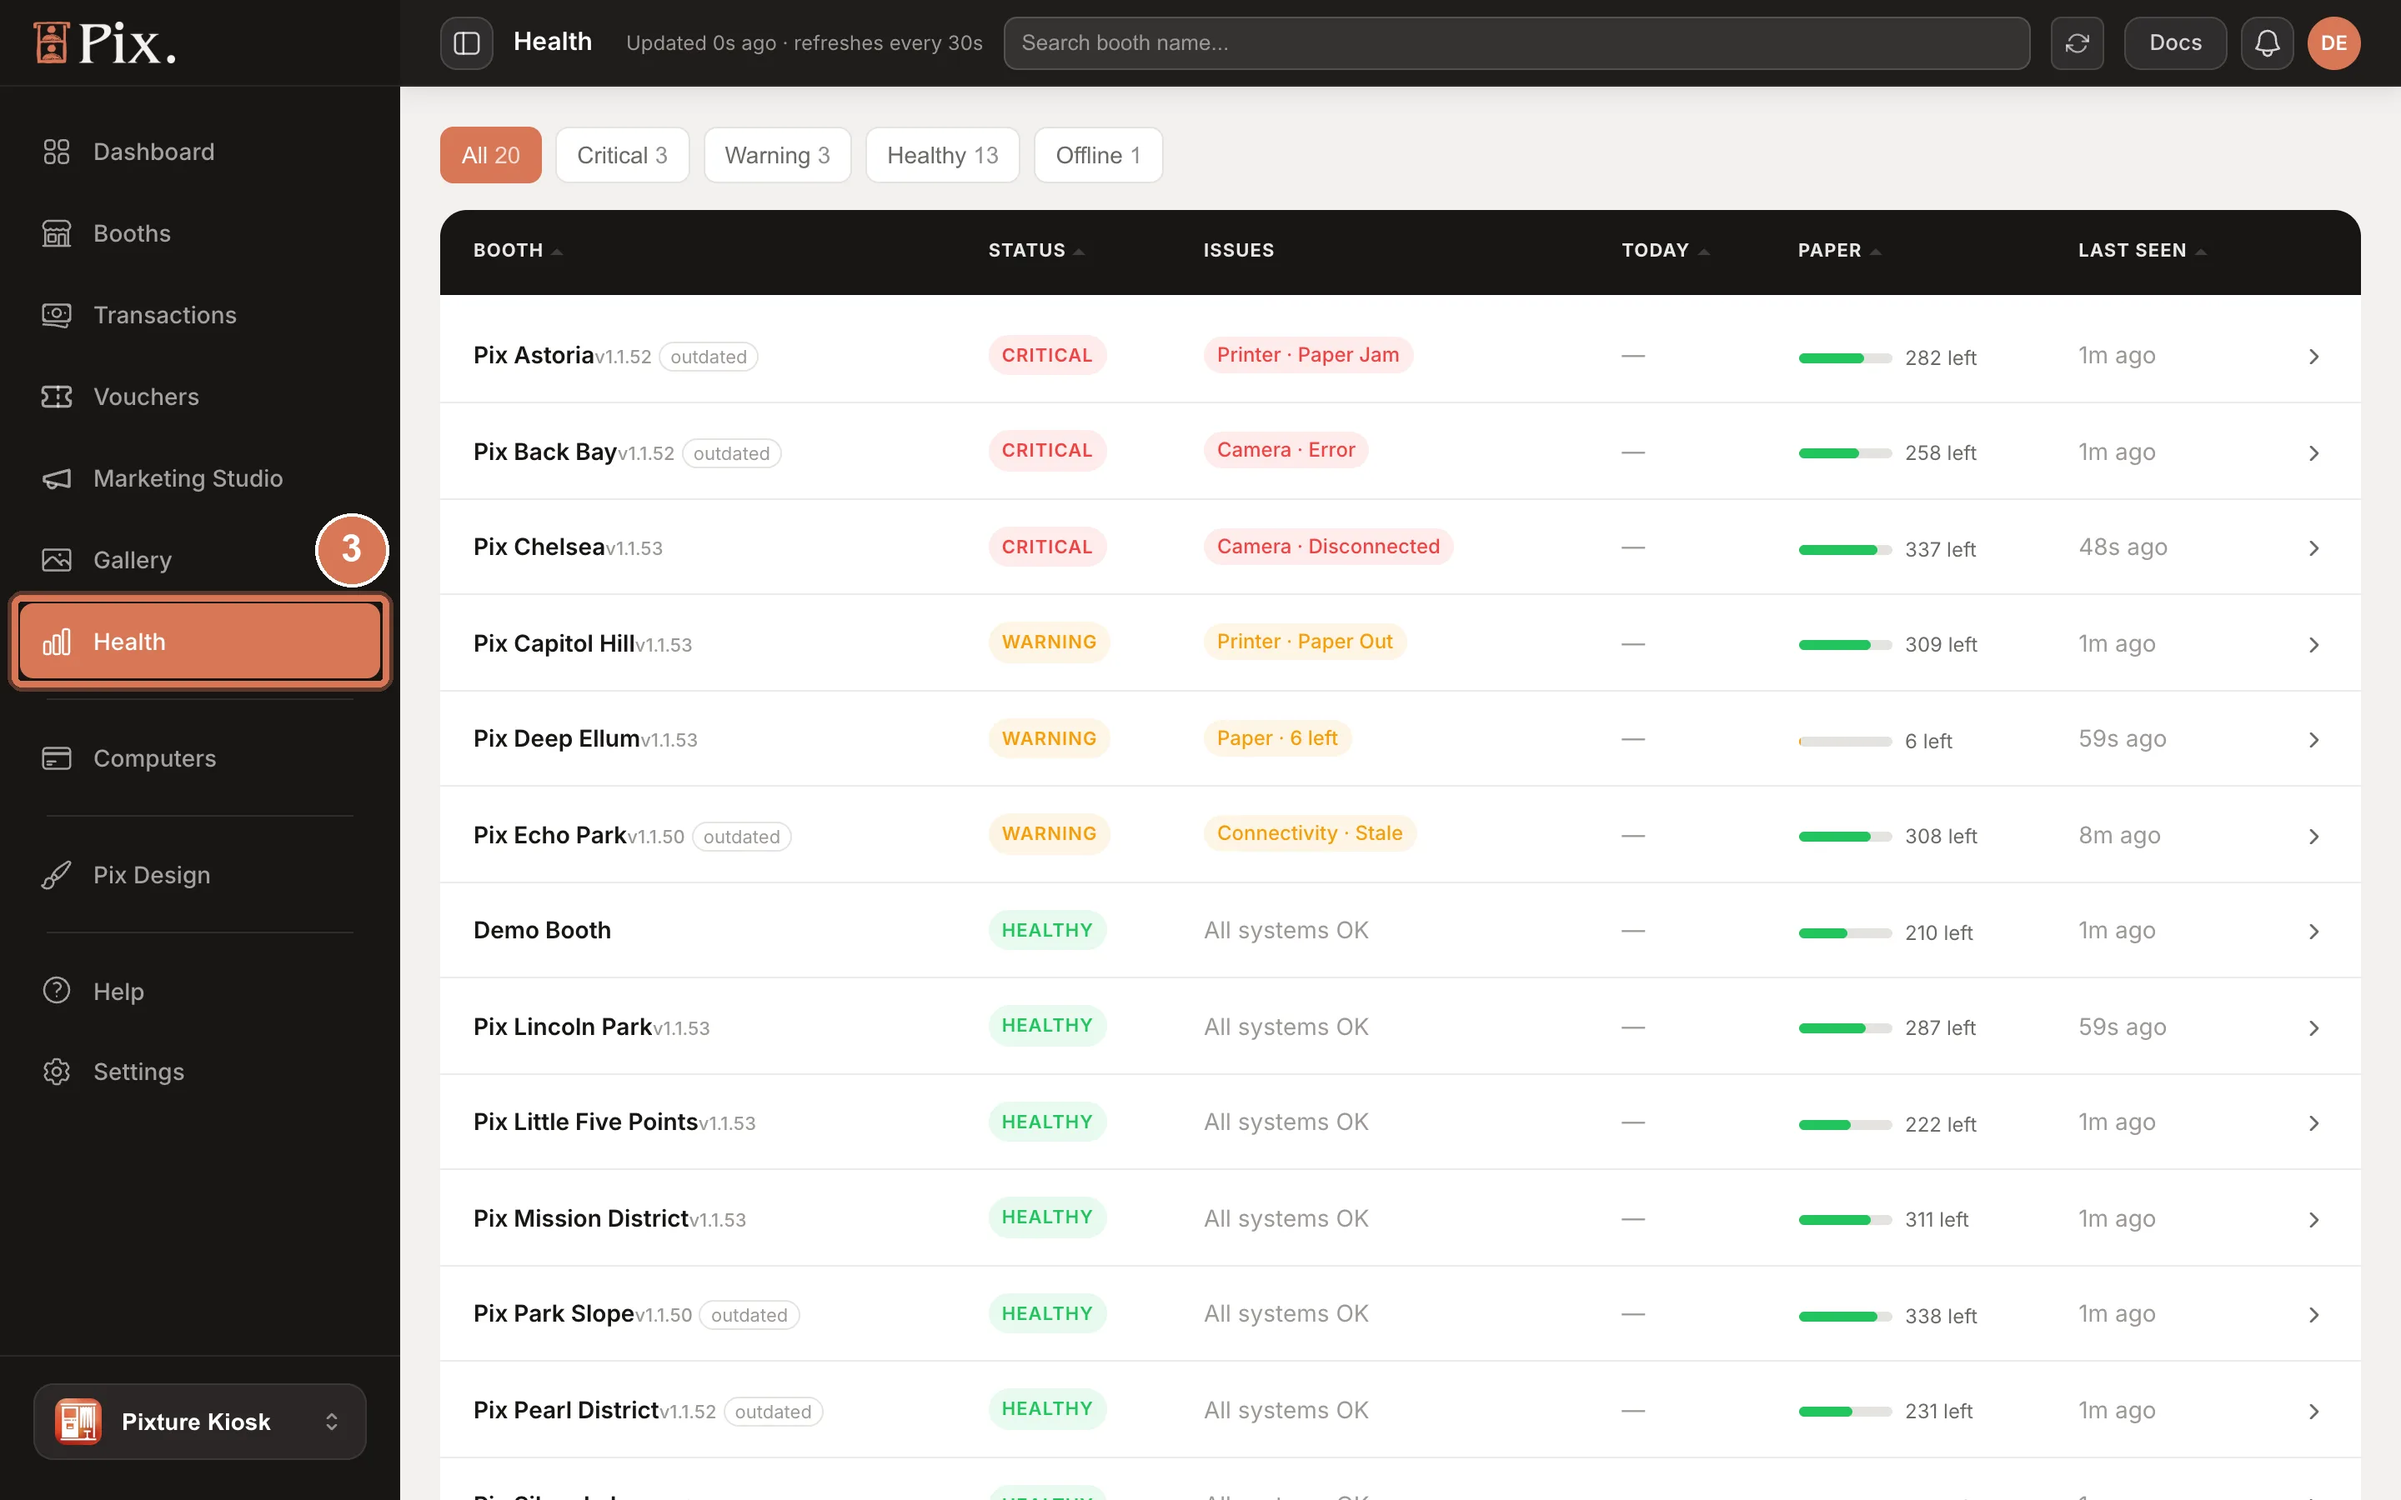
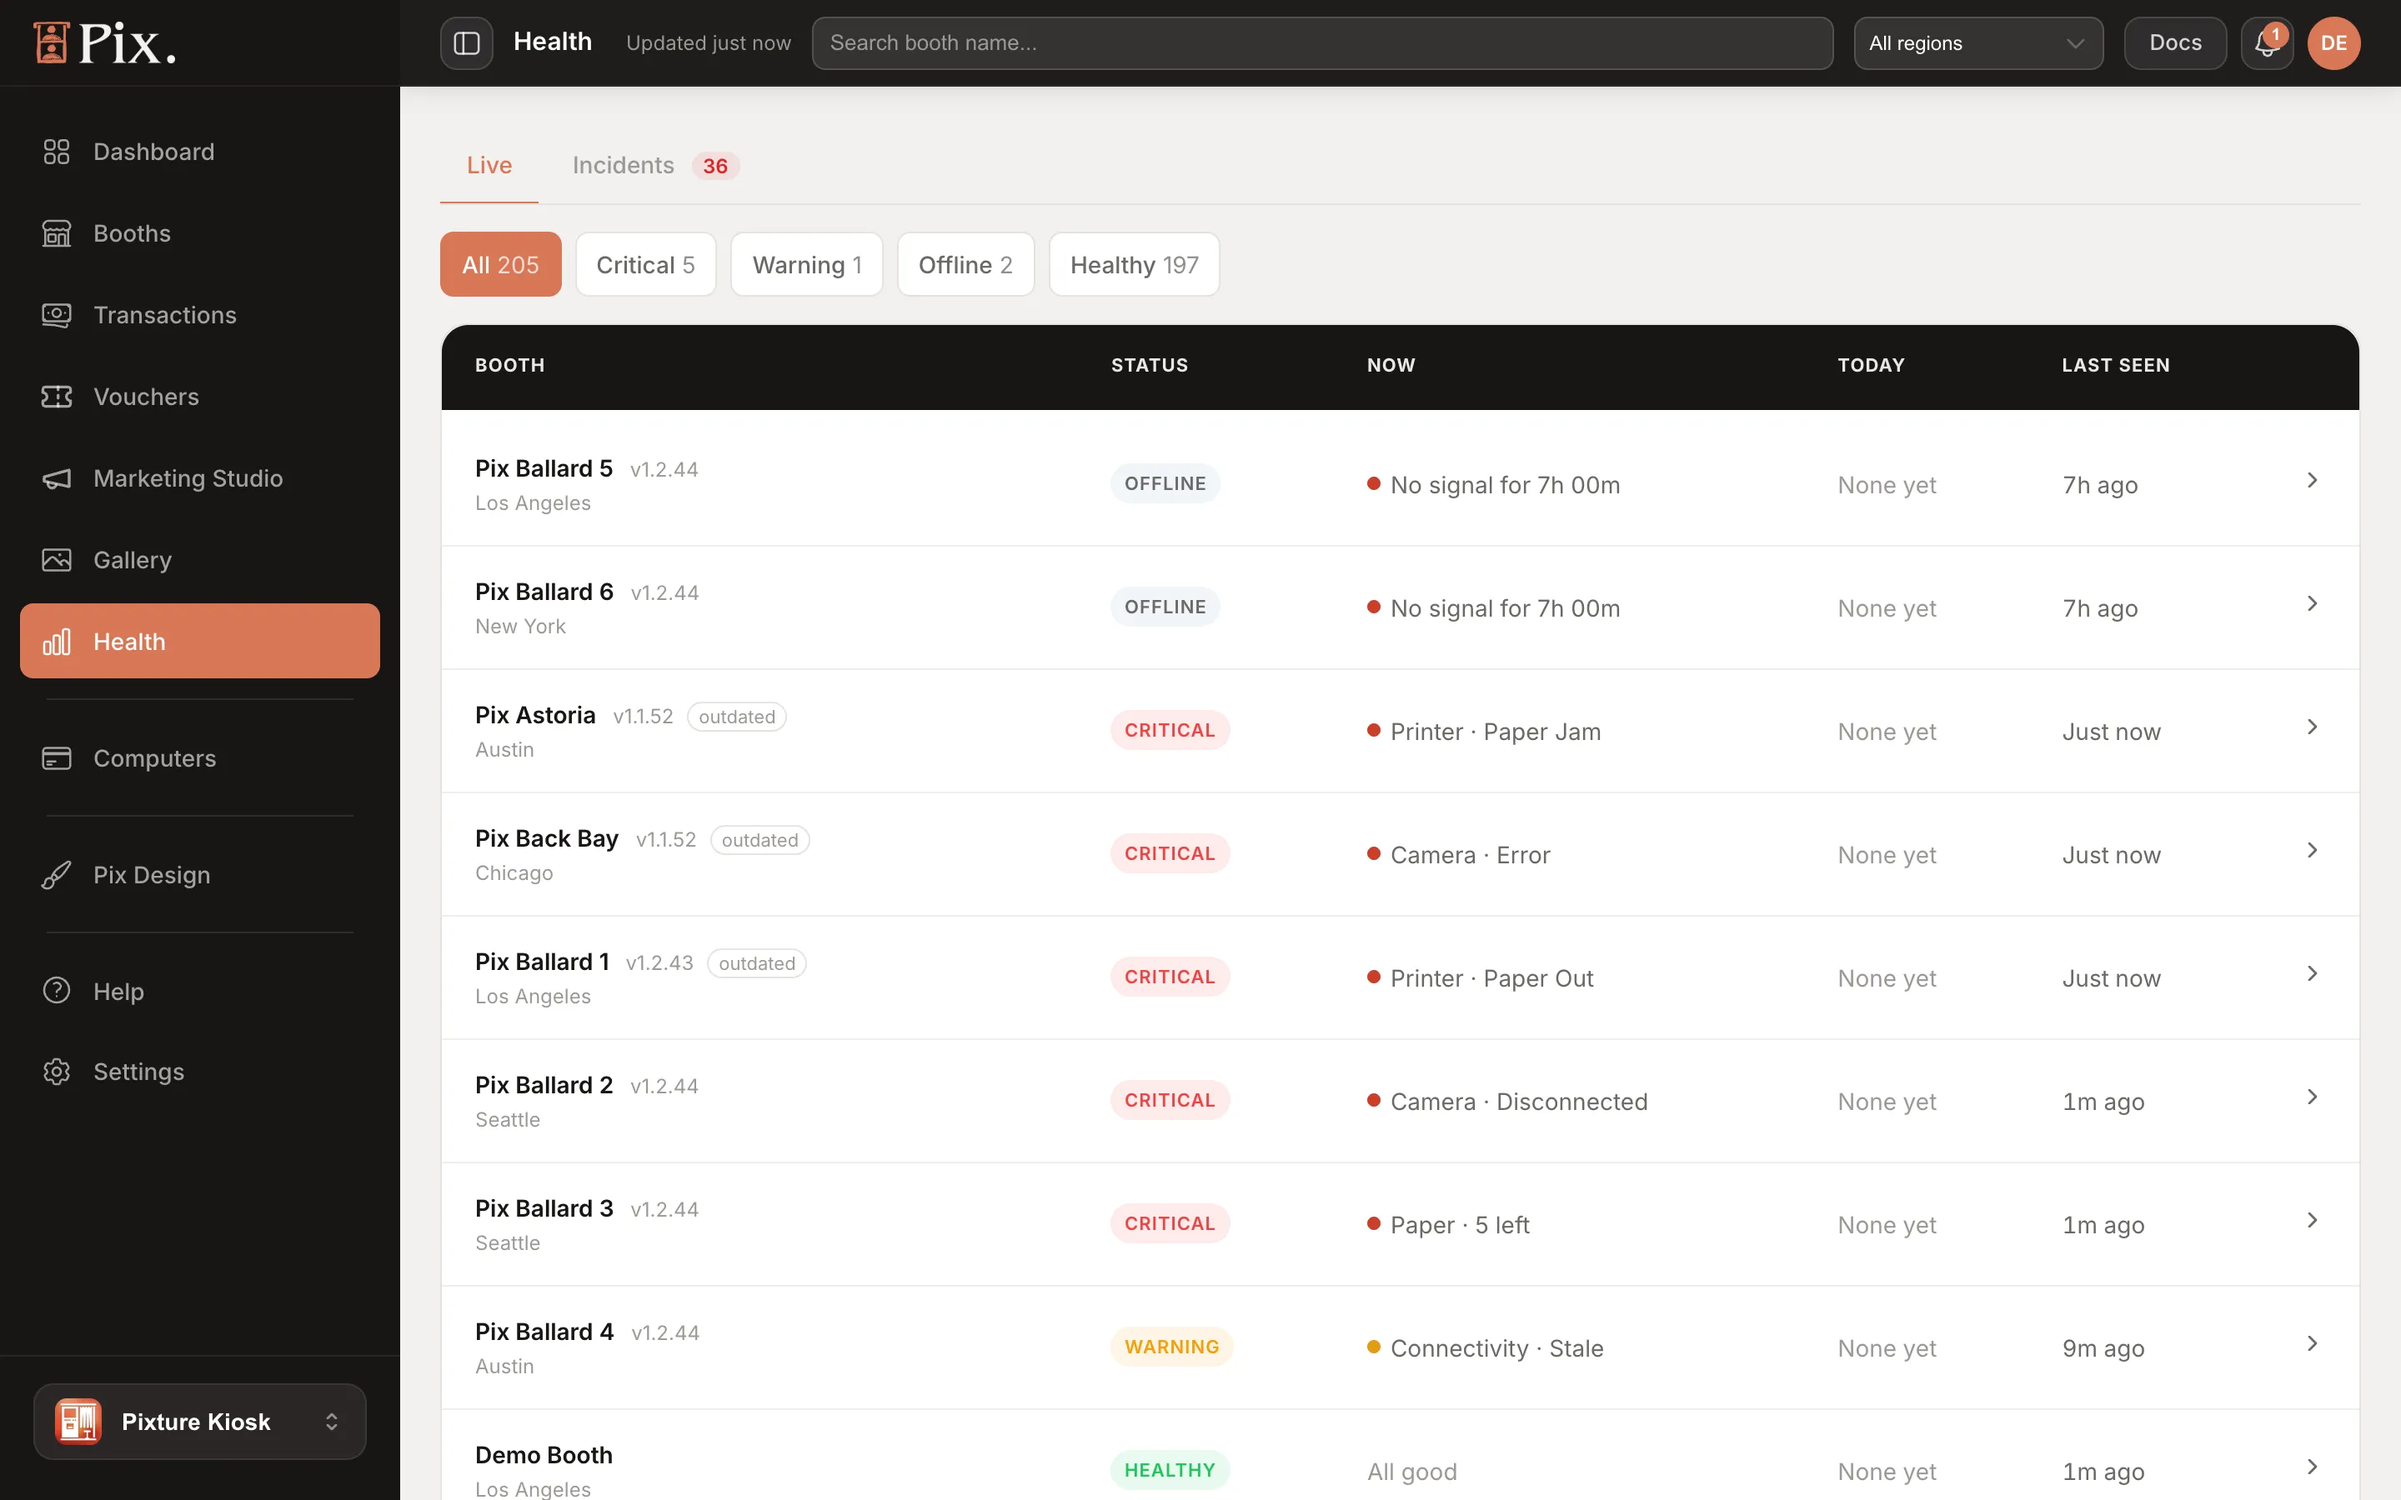
docs(health): the new Health page, Live list, booth view with 60 days of history, Incidents tab

diff --git a/docs/dashboard/health.md b/docs/dashboard/health.md
@@ -1,31 +1,30 @@
 ---
 sidebar_position: 11
 title: Health
-description: Whether every booth is online and working, with camera, printer, paper and upload signals, the booth detail panel, and error records you can download.
+description: Whether every booth is online and working, with camera, printer, paper and upload signals, a booth view with 60 days of history, and incidents you can filter and download.
 tags: [dashboard, health, monitoring]
 ---
 
 # Health
 
-**Health** is the page to open when a booth misbehaves, or before an event starts. It lists every booth with its status, what the booth is reporting, today's count, the paper level and when it last checked in.
+**Health** is the page to open when a booth misbehaves, or before an event starts. It lists every booth with its status, what the booth is reporting right now, today's count and when it last checked in. Click a booth for its readings and 60 days of history, and open **Incidents** for everything that went wrong.
 
-![Health page: booth rows with Status, Issues, Today, Paper and Last seen, Error records and Download CSV](/img/docs/health.webp)
+![Health page: the Live list with Status, Now, Today and Last seen, and the Incidents tab](/img/docs/health.webp)
 
 On an account with events, Health follows the workspace you are in. **Pixture Kiosk** lists your self-service booths, **Pixture Event** lists **Event health**: event booths and any booth attached to an event, and the **Overview** lists every booth. An event booth, or a booth attached to an event, shows only while its event is running or still to come. Once the event is past (from 06:00 the morning after its last date, or once it is ended or archived), its booths leave the list. The Event dashboard also shows a Health card. See [Pixture Event, Pixture Kiosk and Overview](./views.md).
 
-## Filters
+## Live
 
-Search by booth name, and filter by **All**, **Critical**, **Warning**, **Healthy** or **Offline**.
+**Live** is the list of your booths. Booths with a problem come first: Offline, then Critical, Warning and Healthy. The list shows 50 booths per page and refreshes by itself every 30 seconds; the note beside the title says how old the data is.
 
-## Columns
+Search by booth name, pick a **Region**, and filter by **All**, **Critical**, **Warning**, **Offline** or **Healthy**. A status with no booths is left out. Your search and filters stay in the page address, so they survive a reload and you can share the link.
 
 | Column | What it shows |
 |---|---|
-| Booth | The booth's name |
+| Booth | The booth's name, its app version (marked **outdated** when a newer one is out) and its region |
 | Status | Healthy, Warning, Critical or Offline |
-| Issues | What the booth is reporting, in plain words |
-| Today | Sessions so far today |
-| Paper | Prints left, marked **printer** when the printer driver reports it (DNP printers on a Mac booth with DNP's driver) or **counted** when the booth counts it (app 1.2.44 or newer, after **New roll loaded**). Empty while the booth is offline |
+| Now | What the booth is reporting, in plain words. "No signal for 1h 18m" for an offline booth, "Never connected" for a booth that has not signed in yet, "Dropped 3 times today" for a booth that keeps losing its connection |
+| Today | Sessions and prints so far today |
 | Last seen | When the computer last checked in |
 
 ## Online or Offline
@@ -45,19 +44,34 @@ Offline does not always mean something is wrong. A booth switched off outside op
 | Disk | The computer is running out of space | Clear old files on the booth PC |
 | Memory | The computer is short of memory | Restart the Pixture Photobooth app |
 
-## Booth Detail Panel
+## Booth View
 
-Click a booth row to open its detail panel: the signals above with their last values, today's sessions and prints, and the recent errors from this booth.
+Click a booth to open its view. It has three tabs.
 
-![Health booth detail panel](/img/docs/health-booth-detail.webp)
+![Health booth view, Now tab: the problem on top, the readings, today's count and the printer](/img/docs/health-booth-detail.webp)
+
+- **Now**: any problem on top, with what to do about it. Below it, the booth's readings (connection, camera, printer, paper, storage, uploads, network, memory, temperature), today's sessions and prints, the printer with its paper, the plan, and since when the booth has been online. A reading the booth does not send says "Not reported". An offline booth shows no readings: the last ones it sent may no longer be true.
+- **History**: the last 60 days, one line per day. The bar runs from midnight to midnight: green is the time the booth was online, red is time without a signal. The right side says how the day went: the number of sessions, "Offline 38 min", "Offline all day" or "No record". Click a day for the exact times.
+- **Incidents**: what went wrong on this booth in the last 60 days.
+
+![Health booth view, History tab: one bar per day for 60 days](/img/docs/health-booth-history.webp)
 
 ### New Roll Loaded
 
-For a booth computer, the panel's paper section shows "About N of N left, counted", the roll and when it was loaded, or "Not counted yet". After you load a new roll, click **New roll loaded**, pick the roll size or a **Custom amount**, and click **Start counting**. The booth picks it up at its next check-in, within 5 minutes, and starts counting from the full roll. Needs Pixture Photobooth 1.2.44 or newer. See [Paper Counter](../desktop-app/printer-setup.md#paper-counter).
+For a booth computer, the **Printer** section of the Now tab shows "About N of N left", the roll and when it was loaded, or "Not counted yet". After you load a new roll, click **New roll loaded**, pick the roll size or a **Custom amount**, and click **Start counting**. The booth picks it up at its next check-in, within 5 minutes, and starts counting from the full roll. Needs Pixture Photobooth 1.2.44 or newer. See [Paper Counter](../desktop-app/printer-setup.md#paper-counter).
 
-## Error Records
+## Incidents
 
-At the bottom of the page, **Error records** lists the errors your booths reported. Pick a range (**Last 24h**, **7 days**, **30 days** or **On a specific date**) and click **Download CSV** to send the file to Pixture support, or to keep for your own records.
+The **Incidents** tab lists every time a booth went offline or its camera, printer, paper, screen, memory or temperature failed. The number on the tab is how many are still open.
+
+![Health Incidents tab: totals, filters and the list of incidents](/img/docs/health-incidents.webp)
+
+- Three totals for the period you picked: **Open now**, **Incidents** and **Time offline**.
+- Filter by period (**Last 24 hours**, **7 days**, **30 days** or **60 days**), by type, and by **Open** or **Resolved**. The search and Region at the top of the page apply here too.
+- Each row shows when it started, the booth, what happened, how long it lasted and whether it is still open. Click a row for the details and the likely cause, when Pixture could work one out.
+- **Download CSV** saves every incident that matches your filters, to send to Pixture support or to keep for your own records.
+
+An incident closes by itself when the booth recovers. Incidents are kept for 90 days.
 
 ## App Version and Updates
 

diff --git a/docs/getting-started/your-first-session.md b/docs/getting-started/your-first-session.md
@@ -40,9 +40,9 @@ Studio mode and event video modes change the middle of this flow; see [Studio Se
 
    ![The Transactions page with search, booth filter, period pills, and the Total Transactions, Total Revenue, Payment Success and Session Completion cards](/img/docs/steps/getting-started-your-first-session--transactions.webp)
 
-3. Open **Health**. Your booth's row shows its status, any issues, today's session count, the paper level and when it was last seen. Errors from the booth land under **Error records**.
+3. Open **Health**. Your booth's row shows its status, what it reports now, today's session count and when it was last seen. Click the row for its readings, paper and history. Anything that goes wrong lands under **Incidents**.
 
-   ![The Health page with booth rows showing Status, Issues, Today, Paper and Last seen, and the Error records section](/img/docs/steps/getting-started-your-first-session--health.webp)
+   ![The Health page with booth rows showing Status, Now, Today and Last seen, and the Incidents tab](/img/docs/steps/getting-started-your-first-session--health.webp)
 
 The dashboard home also shows a "Your booth is live" banner with a **View gallery** button after the first session, and the setup banner goes away.
 

diff --git a/docs/getting-started/access-dashboard.md b/docs/getting-started/access-dashboard.md
@@ -35,7 +35,7 @@ If your account has events, the bottom of the sidebar has a switcher between **P
 | **Vouchers** | Free, percentage or fixed-amount codes, single or in batches, plus the **Online shop link** |
 | **Marketing Studio** | Pix Pro only: consent photos, audience, Promo, Frame Lab, campaigns and performance |
 | **Gallery** | Browse, download and delete the photos your booths produced |
-| **Health** | Live booth status, issues, today's sessions, paper level, last seen, and error records to download |
+| **Health** | Live booth status, what each booth reports now, today's sessions, last seen, 60 days of history per booth, and incidents to download |
 | **Computers** | Your computers, Pix Pro and Event Passes. **Add computer** and **Deactivate** (in each row's **Manage** menu) live here |
 | **Pix Design** | Template Editor, UI Editor, Photo Filters, GIF/Video overlay, Microsite and Pix AI (beta) |
 | **Help** | Opens a chat with Lucy, the in-dashboard assistant |

diff --git a/docs/dashboard/overview.md b/docs/dashboard/overview.md
@@ -29,7 +29,7 @@ If your account has events, a switcher at the bottom of the sidebar picks a **wo
 | [Vouchers](./vouchers.md) | Free, fixed-amount or percentage codes, one at a time or in batches |
 | [Marketing Studio](./marketing-studio.md) | Consent photos, audience, Promo, Frame Lab, campaigns and performance. Pix Pro only |
 | [Gallery](./gallery.md) | Browse, download and delete what your booths captured |
-| [Health](./health.md) | Which booths are online, their camera, printer, paper and error records |
+| [Health](./health.md) | Which booths are online, their camera, printer and paper, 60 days of history and incidents |
 | [Computers](./billing.md) | The computers running Pix Pro, your subscription, Event Passes and **Add computer** |
 | [Pix Design](./pix-design/overview.md) | Brand, Template Editor, UI Editor, Photo Filters, GIF/Video overlay, Microsite and Pix AI (beta) |
 | Help | Opens a chat with Lucy, the dashboard assistant |
